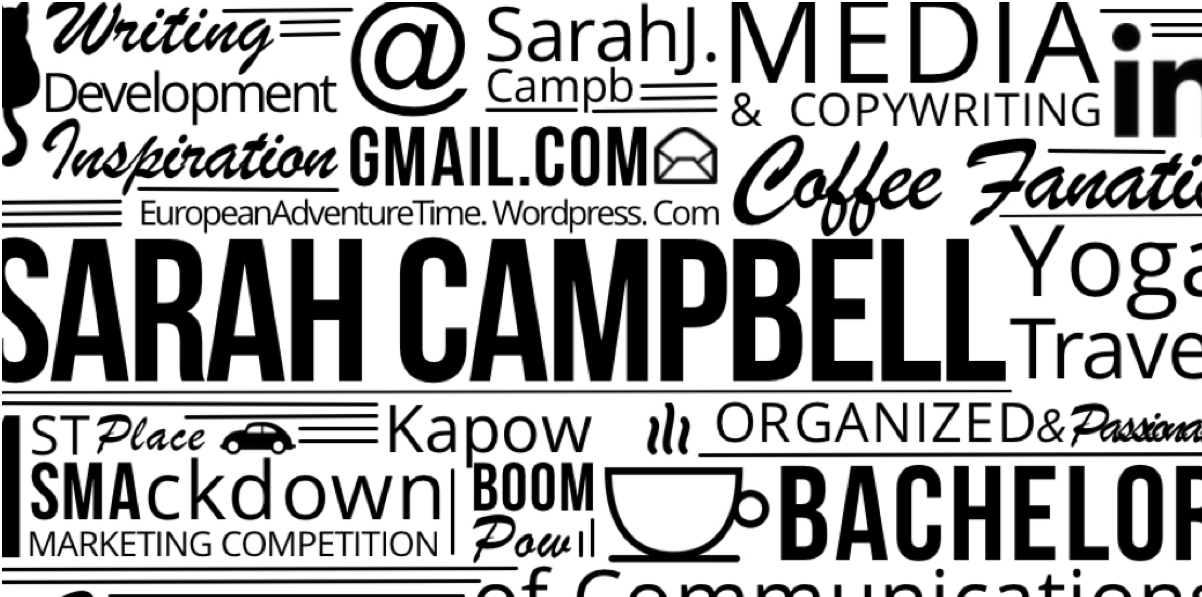
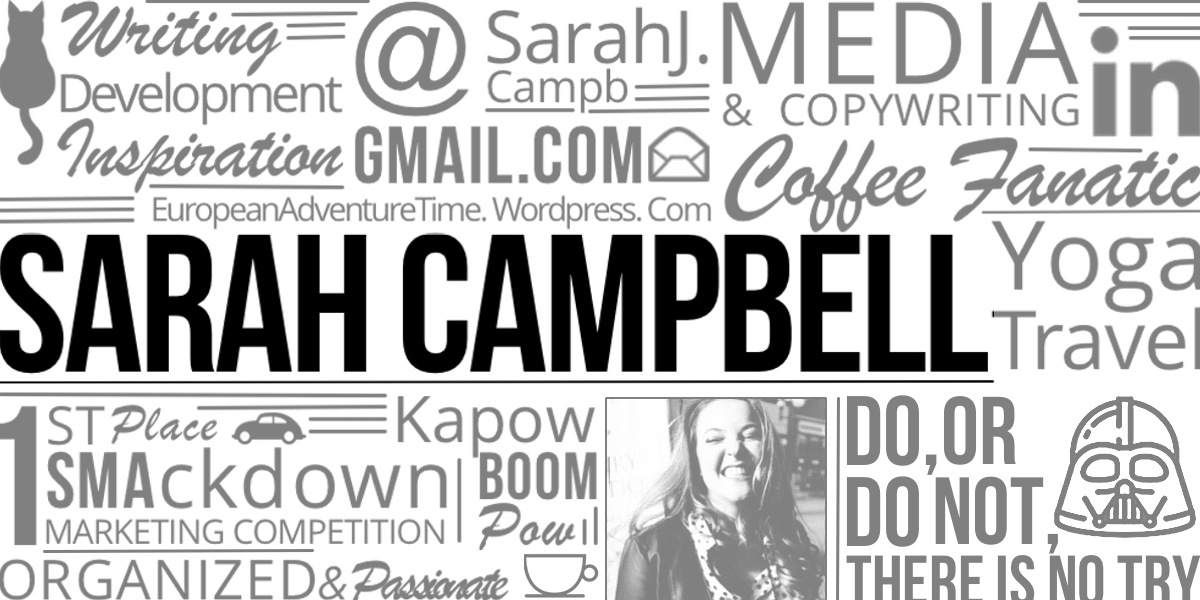
Sarah's header

diff --git a/docs/index.html b/docs/index.html
@@ -14,7 +14,8 @@
 
     <style>
         .header {
-            background-color: rgba(159, 97, 138, 0.45);
+            /*background-color: rgba(159, 97, 138, 0.45);*/
+            background-color: rgba(189, 155, 192, 0.45);
             margin-bottom: 8rem;
         }
 
@@ -40,7 +41,8 @@
 
 <section class="header">
     <div class="container">
-        <div class="tinted-image" style="height: 600px;"></div>
+        <!--<div class="tinted-image" style="height: 600px;"></div>-->
+        <img class="img-fluid" src="img/header.jpg">
     </div>
 </section>
 
